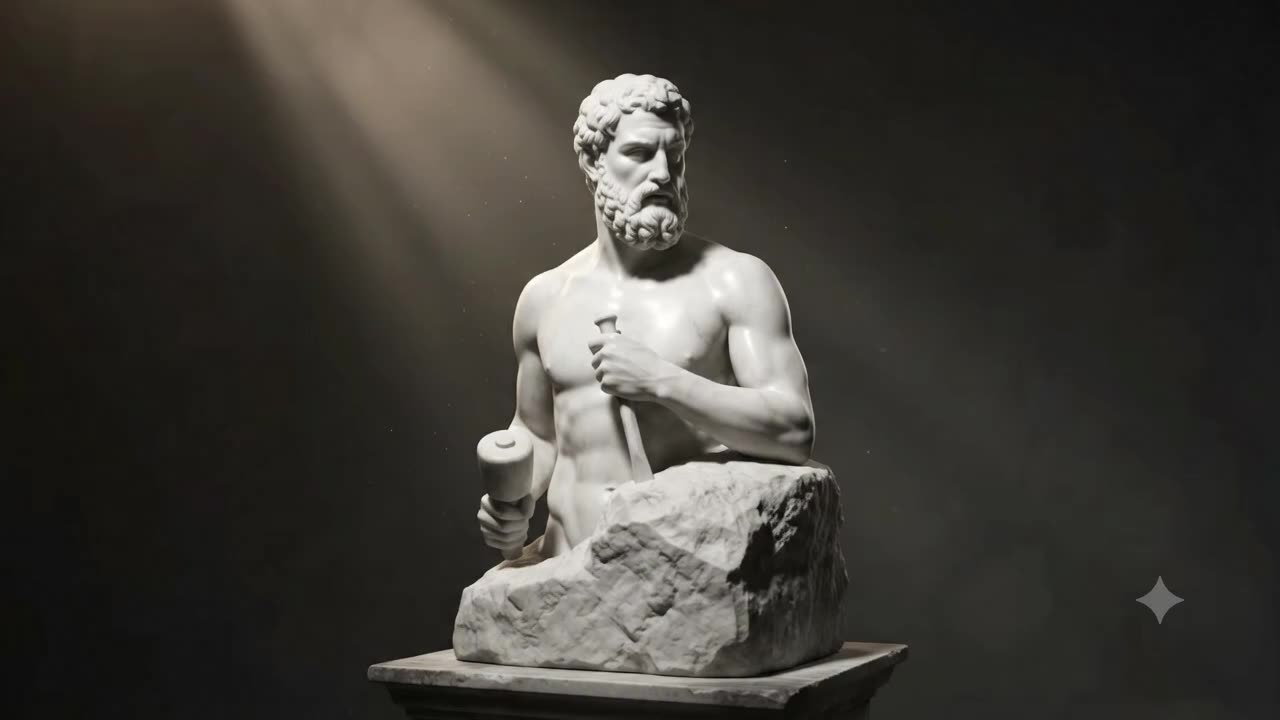
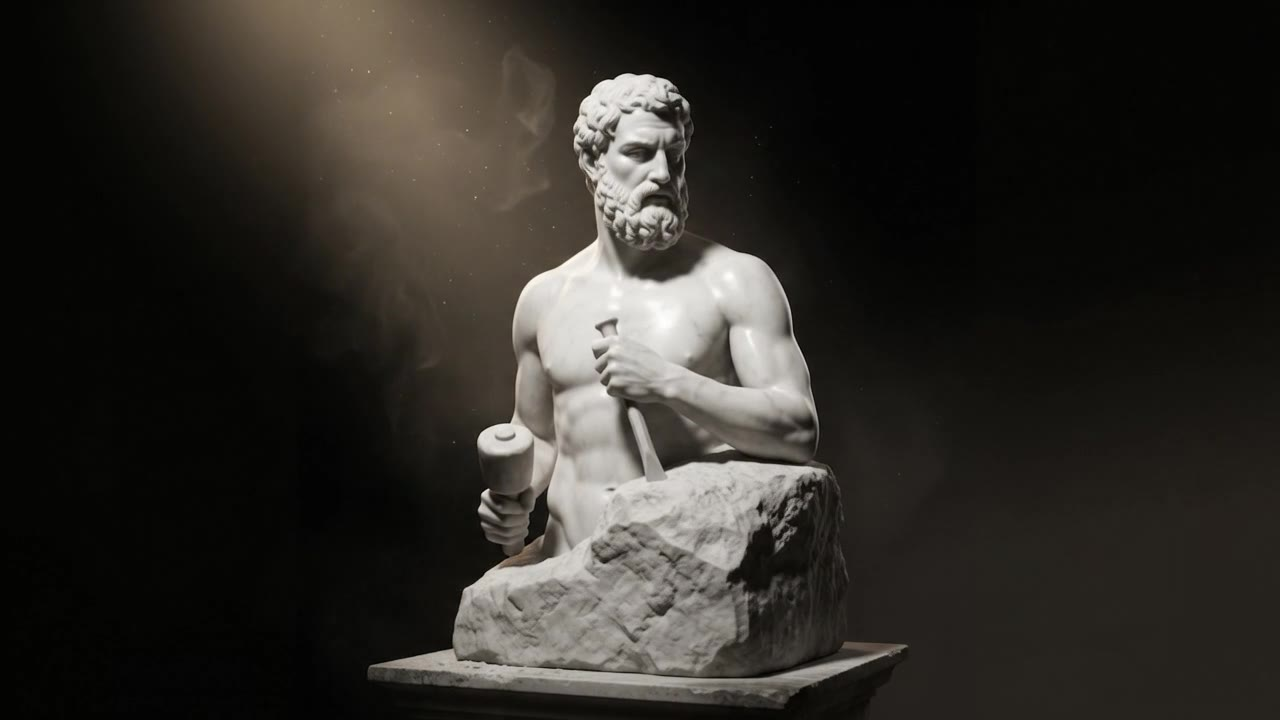
Hero video: new marble-chisel clip (web-optimised, watermark removed) + mobile polish

diff --git a/index.html b/index.html
@@ -3,13 +3,13 @@
 <head>
 <meta charset="utf-8">
 <meta name="viewport" content="width=device-width, initial-scale=1">
-<title>Daniel Tiwari — Transformational Coach</title>
+<title>Daniel Tiwari — Private Coaching</title>
 <meta name="description" content="Private coaching for ambitious individuals who are done living a life that isn't fully theirs.">
 <link rel="icon" href="/favicon.svg" type="image/svg+xml">
 <link rel="canonical" href="https://danieltiwari.com/">
 <meta name="theme-color" content="#0c0c0c">
-<meta property="og:title" content="Daniel Tiwari — Transformational Coach">
-<meta property="og:description" content="Private coaching for the renegades of mainstream society.">
+<meta property="og:title" content="Daniel Tiwari — Private Coaching">
+<meta property="og:description" content="Most people spend their lives optimizing a version of themselves they never chose.">
 <meta property="og:type" content="website">
 <link rel="preconnect" href="https://fonts.googleapis.com">
 <link rel="preconnect" href="https://fonts.gstatic.com" crossorigin>
@@ -60,7 +60,7 @@
   .header-cta:hover{background:#fff;border-color:#fff;color:var(--bg)}
 
   /* hero */
-  .hero{position:relative;min-height:100dvh;display:flex;align-items:center;justify-content:center;overflow:hidden}
+  .hero{position:relative;min-height:100vh;display:flex;align-items:center;justify-content:center;overflow:hidden}
   .hero::before{content:"";position:absolute;top:0;bottom:0;left:30%;right:-30%;background-image:url('/assets/video/dan-hero-statue-poster.jpg');background-size:cover;background-position:left center;filter:saturate(.7);z-index:0}
   .hero-video{position:absolute;top:0;bottom:0;left:30%;right:-30%;height:100%;object-fit:cover;object-position:left center;filter:saturate(.7);z-index:0}
   @media (prefers-reduced-motion:reduce){.hero-video{display:none}}
@@ -178,14 +178,35 @@
   footer .foot-links a:hover{color:var(--ink)}
   footer .hairline{height:1px;background:var(--hair);max-width:3rem;margin:0 auto 1.6rem}
 
-  /* subscribed banner */
-  .subscribed-banner{display:none;position:fixed;bottom:2rem;left:50%;transform:translateX(-50%);z-index:200;background:#1a1a1a;border:1px solid var(--hair);color:#c8c4bc;font-family:var(--sc);font-size:.78rem;letter-spacing:.18em;padding:1rem 2rem;border-radius:2px;text-align:center;box-shadow:0 4px 24px rgba(0,0,0,.5)}
-  .subscribed-banner.show{display:block}
-
   /* reveal */
   .rise{opacity:0;transform:translateY(18px);transition:opacity .9s ease,transform .9s ease}
   .rise.in{opacity:1;transform:none}
   @media(prefers-reduced-motion:reduce){.rise{opacity:1;transform:none;transition:none}}
+
+  /* ===== MOBILE OPTIMISATION — scoped to small screens; desktop unchanged ===== */
+  html,body{overflow-x:hidden}              /* guard against any stray horizontal scroll */
+  img,video{max-width:100%}
+  @media(max-width:900px){
+    header{padding:1.1rem 1.4rem}           /* drop the large desktop left-inset on mobile */
+    .header-name{font-size:.8rem;letter-spacing:.14em}
+    .header-cta{font-size:.66rem;letter-spacing:.14em;padding:.5rem .9rem}
+  }
+  @media(max-width:640px){
+    section{padding:clamp(4.5rem,11vh,8rem) 1.4rem}
+    .hero-inner{padding:0 1.4rem}
+    .hero-video{left:0;right:0}             /* match poster framing on phones */
+    .hero h1{font-size:clamp(1.5rem,6vw,2rem);line-height:1.4}
+    .hero .lede{margin-bottom:2.4rem}
+    .hero-actions{gap:.8rem}
+    .label{letter-spacing:.26em}            /* keep wide tracking from overflowing */
+    .who-grid{margin-top:2rem}
+    .who-col li,.how-list li{font-size:1.08rem;line-height:1.55}
+    .newsletter form{grid-template-columns:1fr}  /* stack name fields */
+    .testi-quote{font-size:1rem}
+  }
+  @media(max-width:380px){
+    .header-cta{font-size:.6rem;letter-spacing:.1em;padding:.45rem .7rem}
+  }
 </style>
 </head>
 <body>
@@ -399,8 +420,6 @@
   </div>
 </section>
 
-<div class="subscribed-banner" id="subscribed-banner">You're on the list. Words worth reading, when they're ready.</div>
-
 <button class="testi-fixed-btn" id="testi-fixed-prev" aria-label="Previous testimonial">←</button>
 <button class="testi-fixed-btn" id="testi-fixed-next" aria-label="Next testimonial">→</button>
 
@@ -415,13 +434,6 @@
 </footer>
 
 <script>
-  // Newsletter success banner
-  if (new URLSearchParams(location.search).get('subscribed') === '1') {
-    const banner = document.getElementById('subscribed-banner');
-    banner.classList.add('show');
-    setTimeout(() => banner.classList.remove('show'), 6000);
-  }
-
   const io = new IntersectionObserver((es) => {
     es.forEach(e => { if (e.isIntersecting) { e.target.classList.add('in'); io.unobserve(e.target); } });
   }, { threshold: .14 });
@@ -486,6 +498,12 @@
     fixedNext.classList.toggle('visible', entry.isIntersecting);
   }, {rootMargin: '-48% 0px -48% 0px', threshold: 0});
   testiObserver.observe(testiSection);
+  if (window.matchMedia('(hover: hover) and (pointer: fine)').matches) {
+    const testiWrap = document.querySelector('.testi-wrap');
+    let timer = setInterval(() => showSlide(current + 1, 1), 5000);
+    testiWrap.addEventListener('mouseenter', () => clearInterval(timer));
+    testiWrap.addEventListener('mouseleave', () => { timer = setInterval(() => showSlide(current + 1, 1), 5000); });
+  }
   let touchStartX = 0;
   track.addEventListener('touchstart', e => { touchStartX = e.touches[0].clientX; }, {passive:true});
   track.addEventListener('touchend', e => {